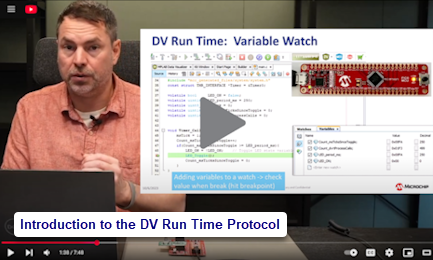
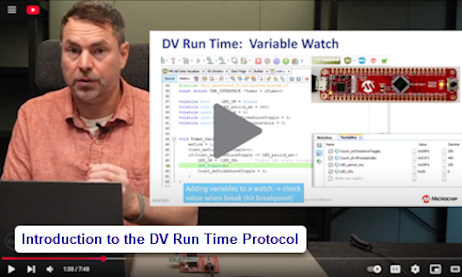
MPAE-20361 fix missing image and link to gif

diff --git a/README.md b/README.md
@@ -17,7 +17,9 @@ With the DVRT protocol, the set of streamed variables or memory locations, as we
 In this example, an LED is toggled after `LED_period_ms` (LED toggling period in ms). `LED_ON` holds the state of the LED pin, meaning that when it is set to `0`, an active-low LED is on, and vice versa. Every 1 ms, `DVRT_process( )` is called via a flag (msTick) set in the timer callback.
 Count_msTicksSinceToggle is incremented up to toggle_ms, when LED_ON is toggled.  
 
- [![Intro to DV Run Time Protocol](images\IntroToDVRunTime-Video.png)](https://www.youtube.com/watch?v=d99qiWsrbDc) [![Watch the video on YouTube](images/HelloWorldLedToggleCountVars-Video.png)](https://www.youtube.com/watch?v=80OA-Cw0F_k)
+[![Intro to DV Run Time Protocol](images\IntroToDVRunTime-Video.png)](https://www.youtube.com/watch?v=d99qiWsrbDc)  
+ 
+ [![Watch the video on YouTube](images/HelloWorldLedToggleCountVars-Video.png)](https://www.youtube.com/watch?v=80OA-Cw0F_k)
 
 ## Related Documentation
 - [MPLAB® Code Configurator (MCC) Melody API Reference for DV Run Time Library](https://onlinedocs.microchip.com/v2/keyword-lookup?keyword=DV-RUN-TIME-LIBRARY&version=latest&redirect=true)
